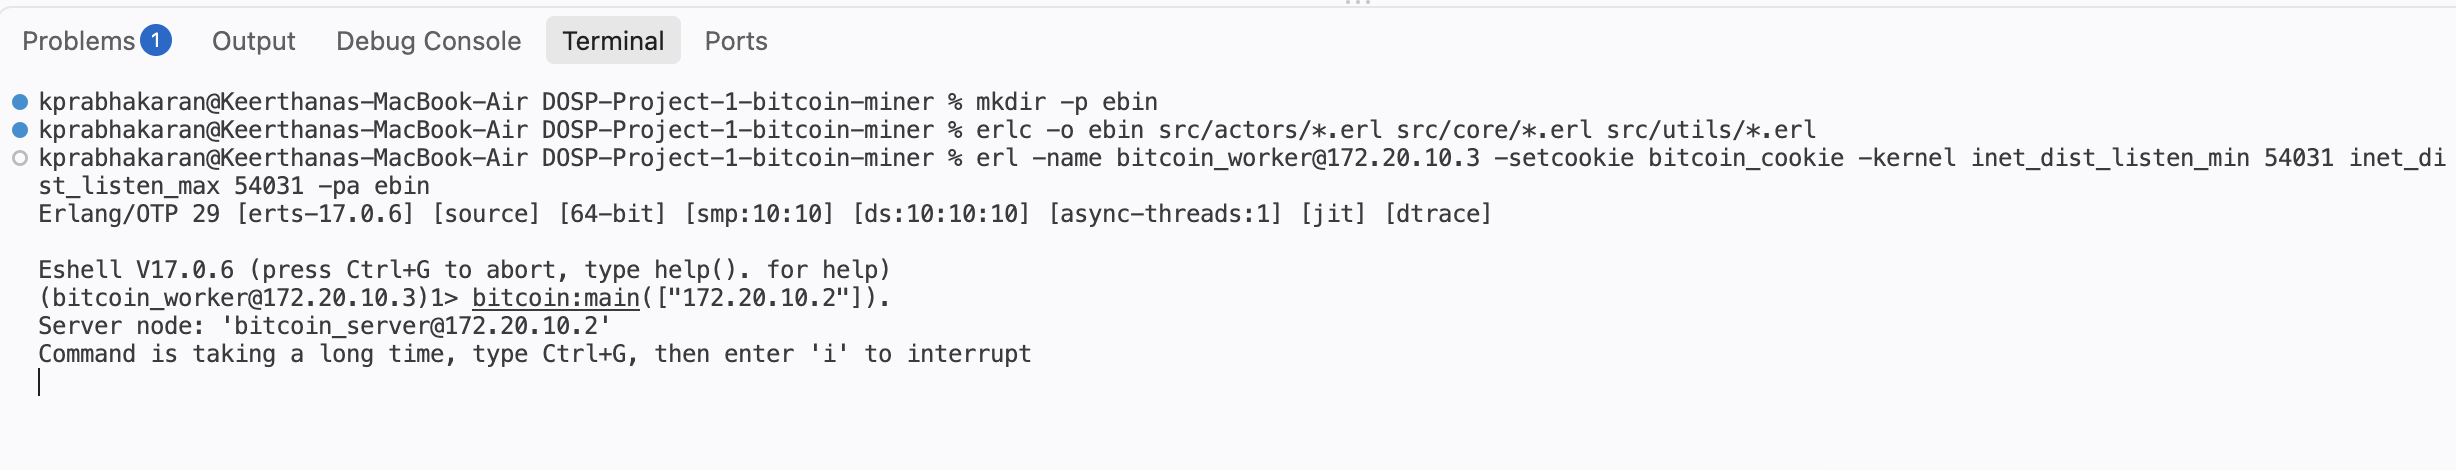
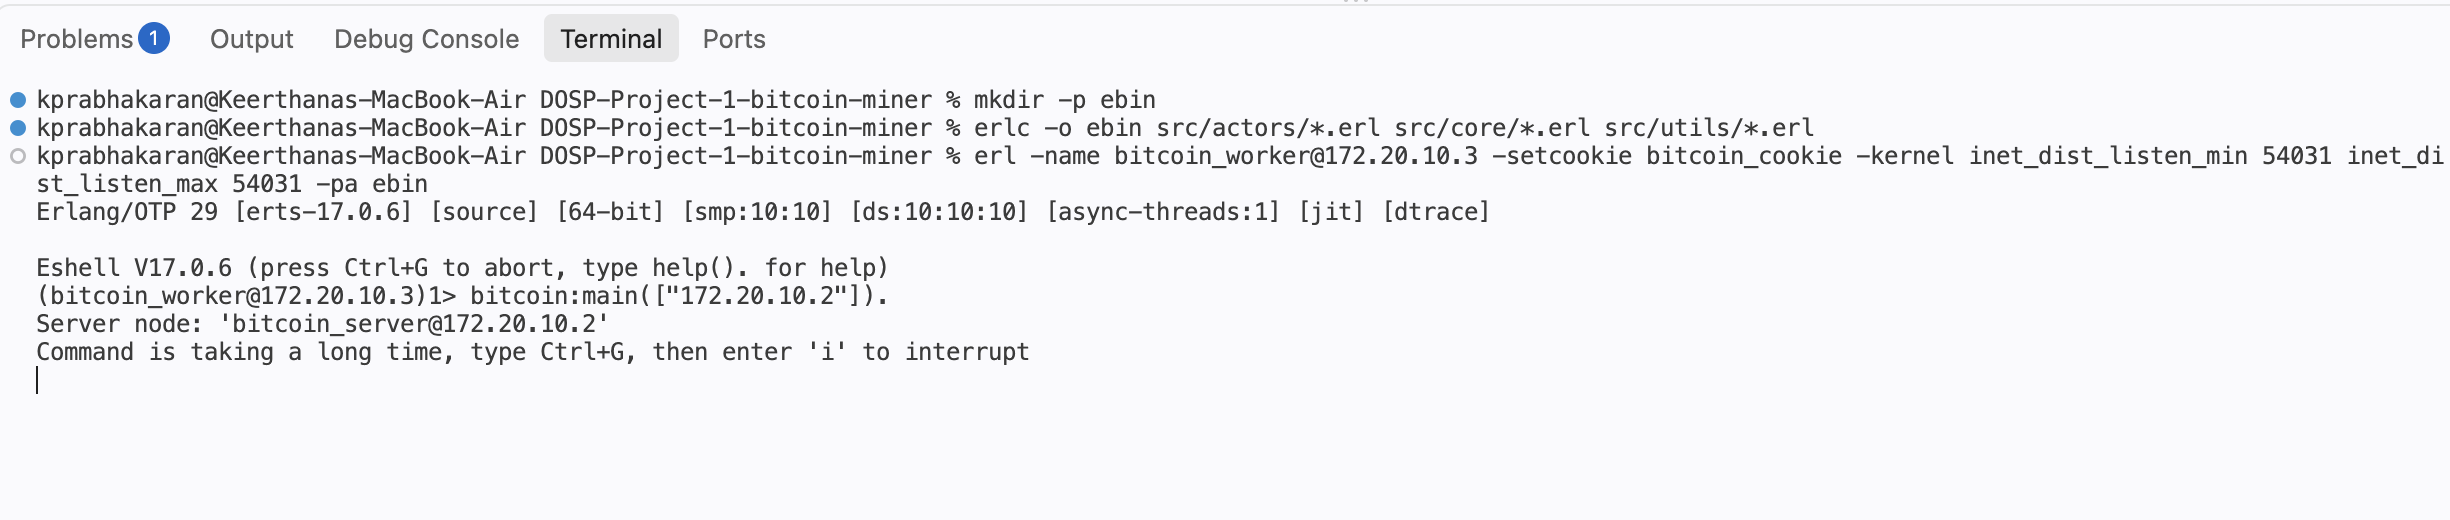
updated benchmark and cleaned code

Changed region(s): [[0.0, 0.1489, 1.0, 0.7745], [0.0, 0.0596, 0.3102, 0.1191]]

diff --git a/README.md b/README.md
@@ -12,17 +12,11 @@ The program searches for strings whose SHA-256 hash starts with a specified numb
 The mining work is divided into ranges and processed by worker actors under the control of a boss actor.
 The implementation is designed to make use of multiple CPU cores and to support distributed workers running on other machines.
 
-## Current Implementation
-The project currently includes:
-- SHA-256 hashing using Erlang's `crypto` module
-- Verification of hashes with a required number of leading zeroes
-- Candidate generation using a GatorLink ID and nonce
-- Worker actors for processing ranges of candidate values
-- A boss actor that assigns work to workers
-- Dynamic assignment of new work when a worker finishes its current range
-- Multiple worker actors running concurrently
-- Use of the available Erlang schedulers for local parallel execution
-- Command-line entry point for starting the miner
+## Actor Model and Work Distribution
+The mining work is divided among worker actors.
+The boss actor maintains the work allocation and gives each worker a range of candidate values.
+When a worker finishes, it sends the results back to the boss and receives another range when more work is available.
+This allows multiple workers to operate concurrently while keeping work allocation centralized in the boss.
 
 ## Project Structure
 ```text
@@ -38,6 +32,17 @@ DOSP-Project-1-bitcoin-miner/
 │       └── bitcoin_utils.erl
 ├── test/
 │   └── bitcoin_tests.erl
+├── benchmark/
+│   └── bitcoin_benchmark.erl
+│   └── run_benchmark.sh
+│   └── run_k4.sh
+│   └── results/
+│   │   ├── benchmark_results.csv
+│   │   ├── k4_highest_zero.txt
+│   │   ├── k4_output.txt
+│   │   ├── k4_summary.txt
+│   │   ├── k4_time.txt
+├── images/
 ├── README.md
 └── .gitignore
 ```
@@ -50,33 +55,38 @@ src/actors/bitcoin_boss.erl| Coordinates the mining process. It creates worker a
 |src/actors/bitcoin_worker.erl|Worker actor responsible for receiving a range of candidate values, mining that range, and returning any valid coins to the boss.|
 |src/core/bitcoin_miner.erl| Performs the actual mining operation over an assigned range.|
 |src/utils/bitcoin_utils.erl| Contains candidate generation, SHA-256 hash conversion, and leading-zero helpers.|
+|benchmark/run_benchmark.sh| Runs benchmarks across different work-unit sizes, measures execution and CPU times, calculates the CPU-to-real-time ratio, and saves the results to results/**benchmark_results.csv**
+|benchmark/run_k4.sh| Runs the final k=4 mining benchmark, records real/user/system CPU times, calculates CPU time and CPU-to-real-time ratio, counts coins found, identifies the coin with the highest number of leading zeroes, and writes the results to **k4_summary.txt** and **k4_output.txt**
 
 ## Steps to Execute
 Compile the source files and test:
 ```bash
 mkdir -p ebin
-erlc -o ebin src/actors/**.erl src/core/**.erl src/utils/*.erl test/**.erl
+erlc -o ebin src/actors/**.erl src/core/**.erl src/utils/*.erl
 ```
-
-Run the unit tests:
+### For dsitributed computation:
+Start server:
 ```bash
-erl -noshell -pa ebin -eval 'eunit:test(bitcoin_tests, [verbose]), halt().'
+erl -name bitcoin_server@<server_ip> -setcookie bitcoin_cookie -kernel inet_dist_listen_min 54031 inet_dist_listen_max 54031 -pa ebin
 ```
 
-Start Erlang with the compiled modules:
+Start worker:
 ```bash
-erl -name bitcoin_server@192.168.0.14 -setcookie bitcoin_cookie -kernel inet_dist_listen_min 54031 inet_dist_listen_max 54031 -pa ebin
+erl -name bitcoin_worker@<worker_ip> -setcookie bitcoin_cookie -kernel inet_dist_listen_min 54031 inet_dist_listen_max 54031 -pa ebin
 ```
 
-The current local entry point accepts the required number of leading zeroes:
+Start mining computation for K:
 ```erlang
 bitcoin:main(["4"]).
 ```
 
-For example, 4 searches for hashes beginning with:
-```text
-0000
+Initiate worker with server ip:
+```erlang
+bitcoin:main(["<server_ip>"]).
 ```
+
+Here mining starts on hashes with 4 leading 0’s  =>
+`0000`
 
 The server prints each valid coin as an independent line in the following
 format, with the input string and SHA-256 hash separated by a TAB:
@@ -93,14 +103,30 @@ pr.shekhawat;kjsdfk11
 ```
 to produce:
 ```text
[2 lines of base64/hex data omitted]
 ```
 
-## Actor Model
-The mining work is divided among worker actors.
-The boss actor maintains the work allocation and gives each worker a range of candidate values.
-When a worker finishes, it sends the results back to the boss and receives another range when more work is available.
-This allows multiple workers to operate concurrently while keeping work allocation centralized in the boss.
+## Testing & Benchmark
+Compile the source files and test and benchmark:
+```bash
+mkdir -p ebin
+erlc -o ebin src/actors/**.erl src/core/**.erl src/utils/*.erl test/**.erl benchmark/**.erl
+```
+
+Run the unit tests:
+```bash
+erl -noshell -pa ebin -eval 'eunit:test(bitcoin_tests, [verbose]), halt().'
+```
+
+Benchmark for performance:
+```bash
+sh run_benchmark.sh
+```
+
+Benchmark implementation for k=4
+```bash
+sh run_k4.sh
+```
 
 ## Distributed Mining
 A server will allow the remote worker running on another machine to connect and receive mining work.
@@ -166,27 +192,11 @@ The final implementation uses a work unit of:
 The execution times were measured separately on the client and server using
 the `time` command.
 
-#### Client
+| work_unit | real_seconds | user_seconds | sys_seconds | cpu_seconds | cpu_real_ratio |
+| --------: | -----------: | -----------: | ----------: | ----------: | -------------: |
+|     10000 |       24.726 |         6.33 |        0.31 |        6.64 |           0.27 |
+|     10000 |       14.619 |        58.17 |        1.81 |       59.98 |           4.10 |
 
-- **Real time:** 24.726 seconds
-- **User CPU time:** 6.33 seconds
-- **System CPU time:** 0.31 seconds
-- **Total CPU time:** 6.64 seconds
-- **CPU/Real ratio:** $6.64 / 24.726 \approx 0.27$
-
-Thus, the client used approximately **0.27 effective CPU cores** during
-the computation.
-
-#### Server
-
-- **Real time:** 14.619 seconds
-- **User CPU time:** 58.17 seconds
-- **System CPU time:** 1.81 seconds
-- **Total CPU time:** 59.98 seconds
-- **CPU/Real ratio:** $59.98 / 14.619 \approx 4.10$
-
-Thus, the server used approximately **4.10 effective CPU cores** during
-the computation.
 
 The server therefore shows significant parallel CPU utilization, while
 the client has relatively little local CPU utilization. This proves distributed computation where most of the computational work is
